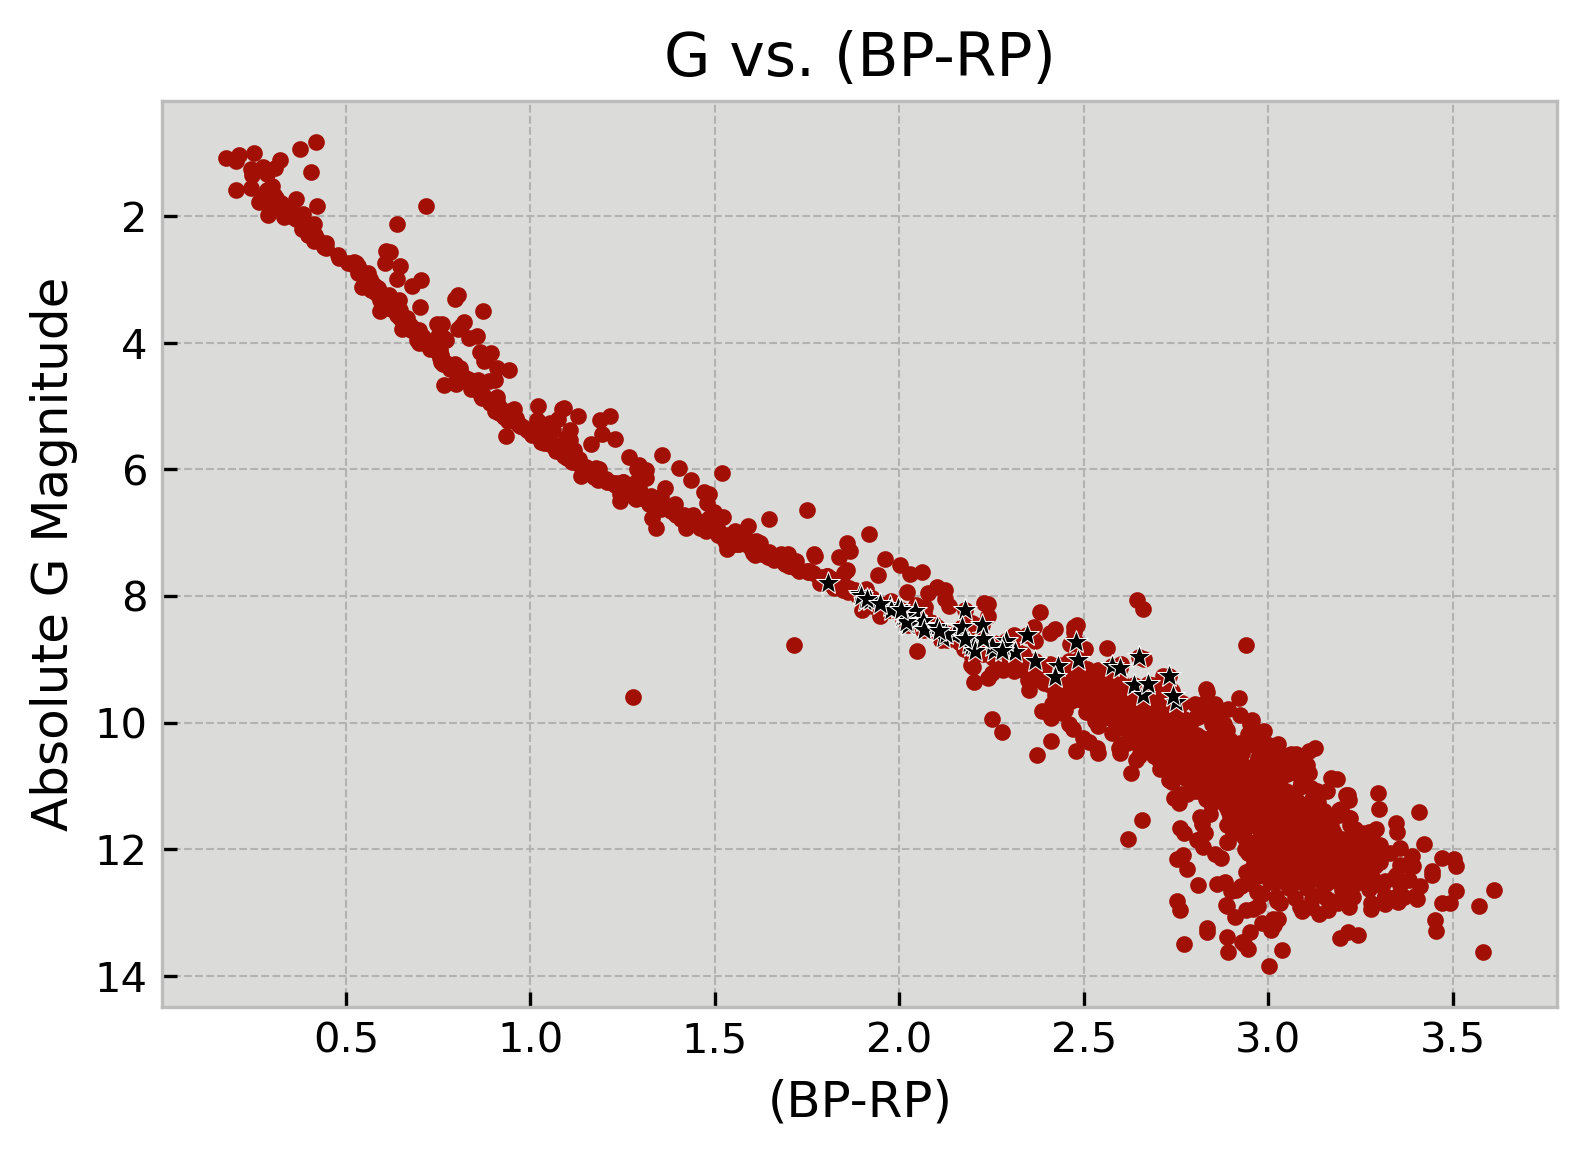
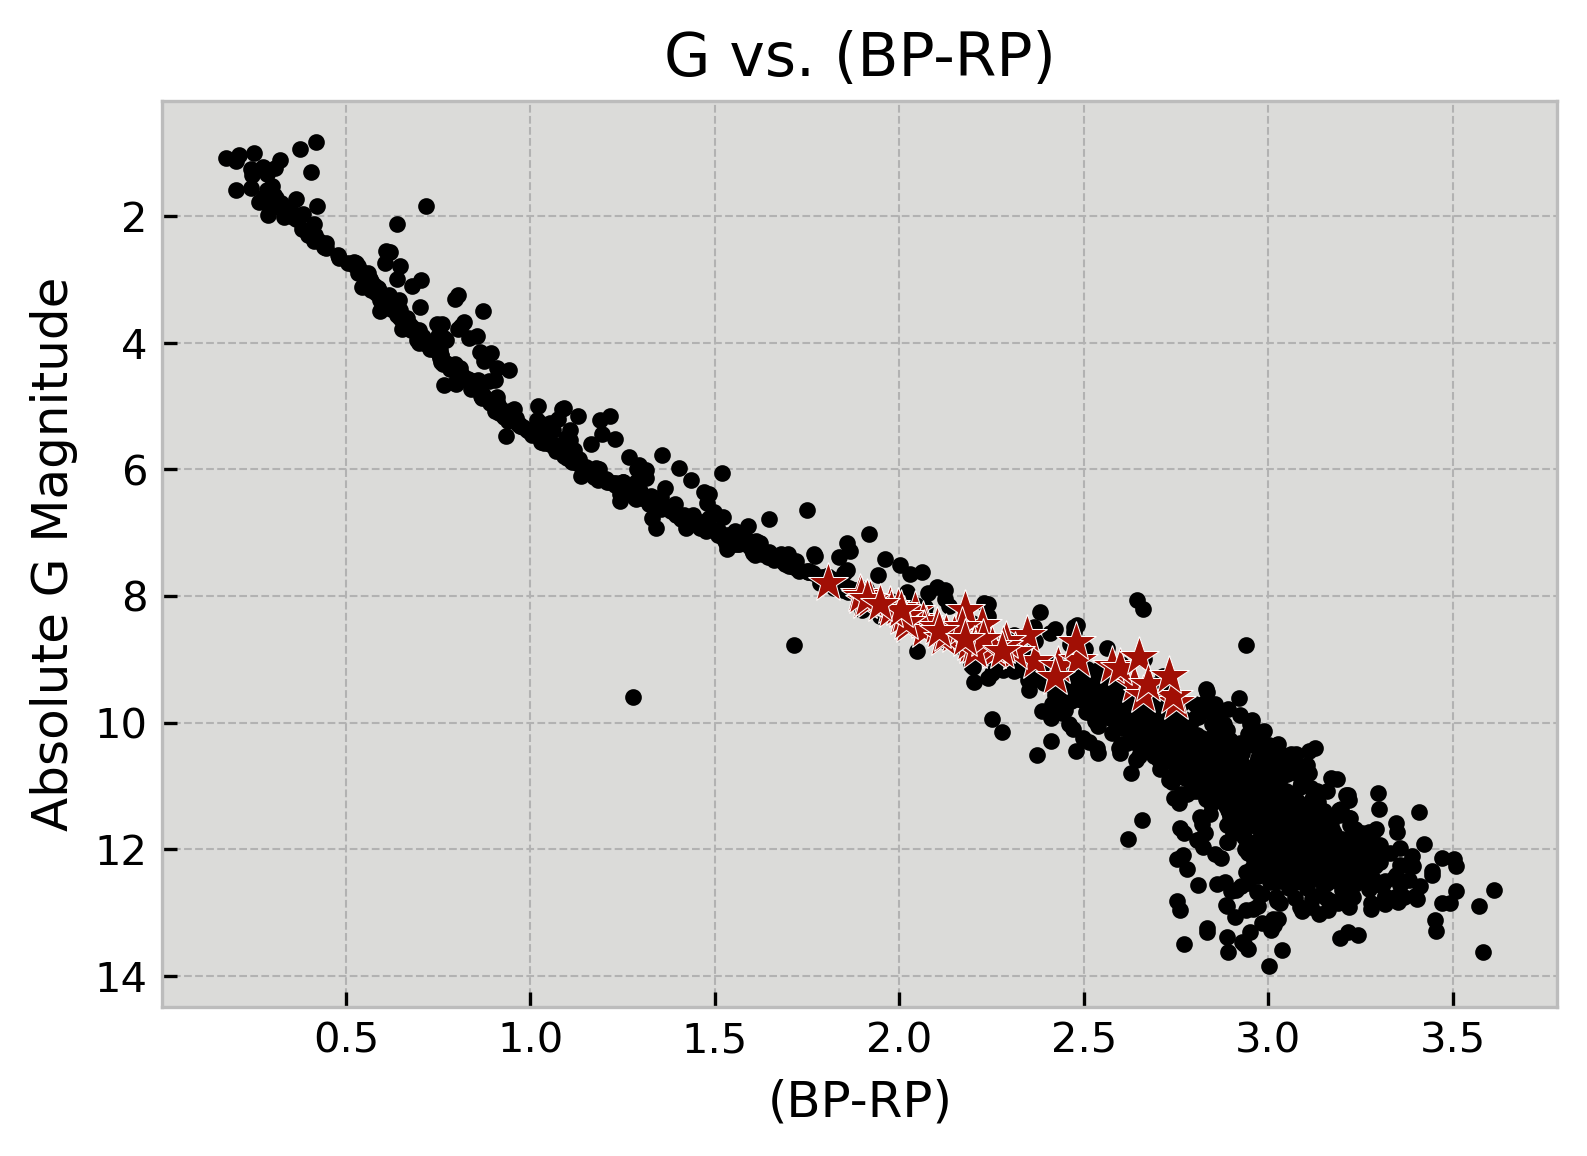
Changes to CMD made before AAS

Changed region(s): [[0.1235, 0.0934, 0.9572, 0.8408], [0.7101, 0.4983, 0.741, 0.5294], [0.3705, 0.5917, 0.4014, 0.6228]]

diff --git a/keck_parser.py b/keck_parser.py
@@ -18,7 +18,8 @@ import mmap
 
 csv_path_github = os.path.expanduser(r"C:/Users/Jared/Documents/GitHub/data-parser/CSV Files")
 csv_path_drive = os.path.expanduser(r"G:/Shared drives/DouglasGroup/data/WIYN")
-rv_output_path = os.path.expanduser(r"G:/Shared drives/DouglasGroup/Jared Sofair 2022/MOLUSC/Data Parser tables/MOLUSC RVs")
+rv_output_path_drive = os.path.expanduser(r"G:/Shared drives/DouglasGroup/Jared Sofair 2022/MOLUSC/Data Parser tables/MOLUSC RVs")
+rv_output_path = os.path.expanduser(r"C:/Users/Jared/Documents/GitHub/MOLUSC/rvs")
 
 targets_abr = Table.read(os.path.join(csv_path_github, r'targets_abr.csv'))
 wiyn = Table.read(os.path.join(csv_path_drive, r'WIYN_RVs_matchedKeck.csv'))
@@ -440,12 +441,12 @@ if __name__ == "__main__":
         # If it is in wiyn multiple times, put it in targets_rv
         if count > 1:
             targets_rv = np.append(targets_rv, name[0])
-                        
+
     print(targets_rv)
 #%% Use the list of targets we have RVs for to generate files that we can feed MOLUSC
-# for i, name in enumerate(targets_rv):
-#     output_rv_data(name)
-#     print(i)
+for i, name in enumerate(targets_rv):
+    output_rv_data(name)
+    # print(i)
     
 #%% TODO: Take targets_abr and add rv, rverr, hjd (converted to mjd) and output them to txt file readable by MOLUSC
 

diff --git a/praesepe_cmd_mass.py b/praesepe_cmd_mass.py
@@ -95,8 +95,8 @@ pm_binned_color1 = pm_grouped_color1.groups.aggregate(np.mean)
 #%% Plotting G vs. BP-RP
 
 fig, ax = plt.subplots()
-ax.plot(pm['BP-RP'], pm['absG'], '.', color='#a10f05') # (Almost) all pm stars
-ax.plot(targets['BP-RP'], targets['absG'], "*", color='black', mec="white", mew="0.25") # All targets
+ax.plot(pm['BP-RP'], pm['absG'], '.', color='black') # (Almost) all pm stars
+ax.plot(targets['BP-RP'], targets['absG'], "*", color='#a10f05', mec="white", mew="0.25", markersize='10') # All targets
 ax.set_facecolor('#dbdbd9')
 
 # Nice orange: #F08B00
